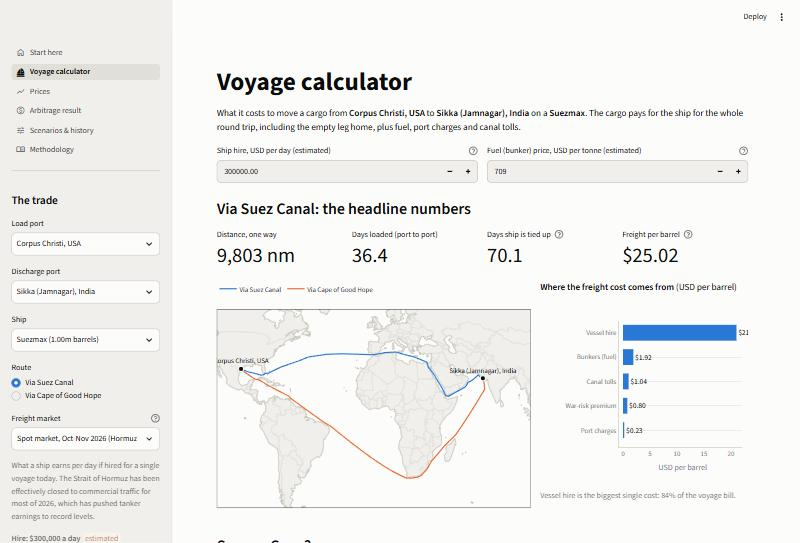
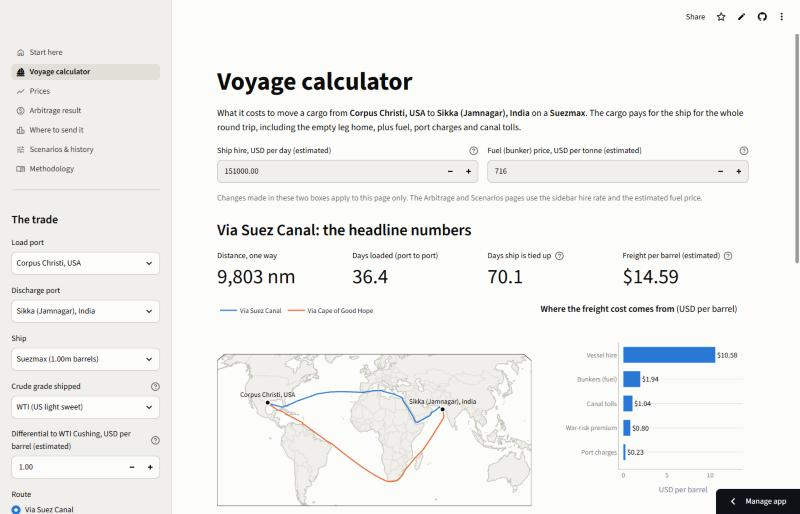
Ranking page: say it keeps the higher-margin route (as the engine does); retake voyage and arbitrage screenshots at mid-November rates

diff --git a/app/ranking_page.py b/app/ranking_page.py
@@ -22,7 +22,8 @@ st.markdown(
     f"costs. This page takes **{inputs.cargo_bbl / 1e6:.2f} million barrels** of "
     f"{A.val(A.load('costs')['grades'][inputs.grade]['name']).split(' (')[0]} loaded at "
     f"**{origin['name']}** on {ui.a_or_an(vessel.name)} and works out the margin to each "
-    f"discharge port, using the cheapest route available to that port.")
+    f"discharge port. Where a port can be reached by more than one route, it keeps the one that "
+    f"leaves the higher margin: usually the cheaper voyage.")
 
 if inputs.freight_override_usd is not None:
     st.info("A broker's quote covers one voyage only, so this ranking costs every destination from "
